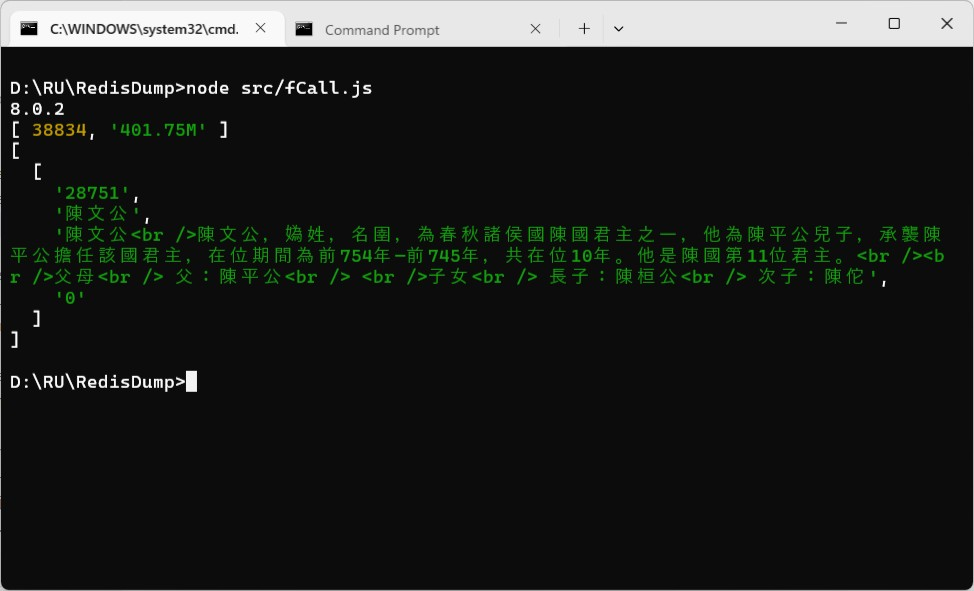
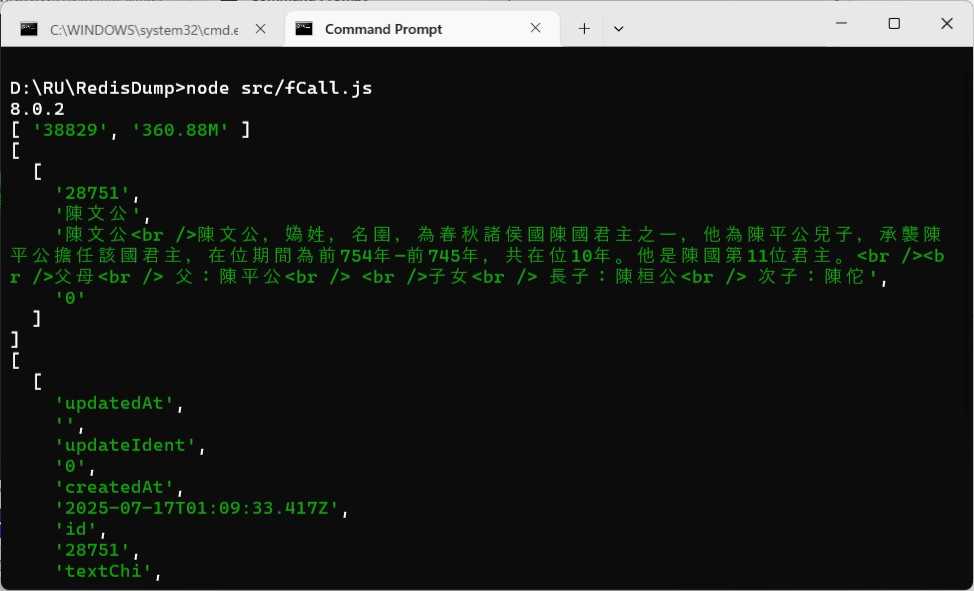
write more

diff --git a/src/sendCommand.js b/src/sendCommand.js
@@ -5,11 +5,13 @@ import { redis } from './redis/redis.js'
 */
 await redis.connect()
 
-console.log(await redis.sendCommand(['FCALL', 'VER', '0']))
-console.log(await redis.sendCommand(['FCALL', 'COUNTKEYS', '0']))
-console.log(await redis.sendCommand(['FCALL', 'SCANTEXTCHI', '3', 
+console.log(await redis.sendCommand(['FCALL_RO', 'VER', '0']))
+console.log(await redis.sendCommand(['FCALL_RO', 'COUNTKEYS', '0']))
+console.log(await redis.sendCommand(['FCALL_RO', 'SCANTEXTCHI', '3', 
     'fts:chinese:documents:*', 'key', '陳文公', 
     'id', 'key', 'textChi', 'visited']))
+console.log(await redis.sendCommand(['FCALL_RO', 'SCANTEXTCHI', '3', 
+    'fts:chinese:documents:*', 'key', '陳文公'])) 
 
 await redis.close();
 process.exit(0)

diff --git a/src/fCall.js b/src/fCall.js
@@ -5,11 +5,13 @@ import { redis } from './redis/redis.js'
 */
 await redis.connect()
 
-console.log(await redis.fCall('ver', [], []))
-console.log(await redis.fCall('countKeys', [], []))
-console.log(await redis.fCall('scanTextChi', 
+console.log(await redis.fCallRo('ver', [], []))
+console.log(await redis.fCallRo('countKeys', [], []))
+console.log(await redis.fCallRo('scanTextChi', 
     ['fts:chinese:documents:*', 'key', '陳文公'], 
     ['id', 'key', 'textChi', 'visited']))
+console.log(await redis.fCallRo('scanTextChi', 
+    ['fts:chinese:documents:*', 'key', '陳文公']))
 
 await redis.close();
 process.exit(0)

diff --git a/RedisFunctions.md b/RedisFunctions.md
@@ -725,6 +725,8 @@ console.log(await redis.sendCommand(['FCALL_RO', 'SCANTEXTCHI', '3',
     'fts:chinese:documents:*', 'key', '陳文公'])) 
 ```
 
+![alt sendCommand](img/sendCommand.JPG)
+
 ##### **The Wrapper**
 To wrap up with: 
 ```
@@ -749,6 +751,8 @@ console.log(await redis.fCallRo('scanTextChi',
 console.log(await redis.fCallRo('scanTextChi', 
     ['fts:chinese:documents:*', 'key', '陳文公']))
 ```
+
+![alt fCall](img/fCall.JPG)
 
 
 #### V. Bibliography
